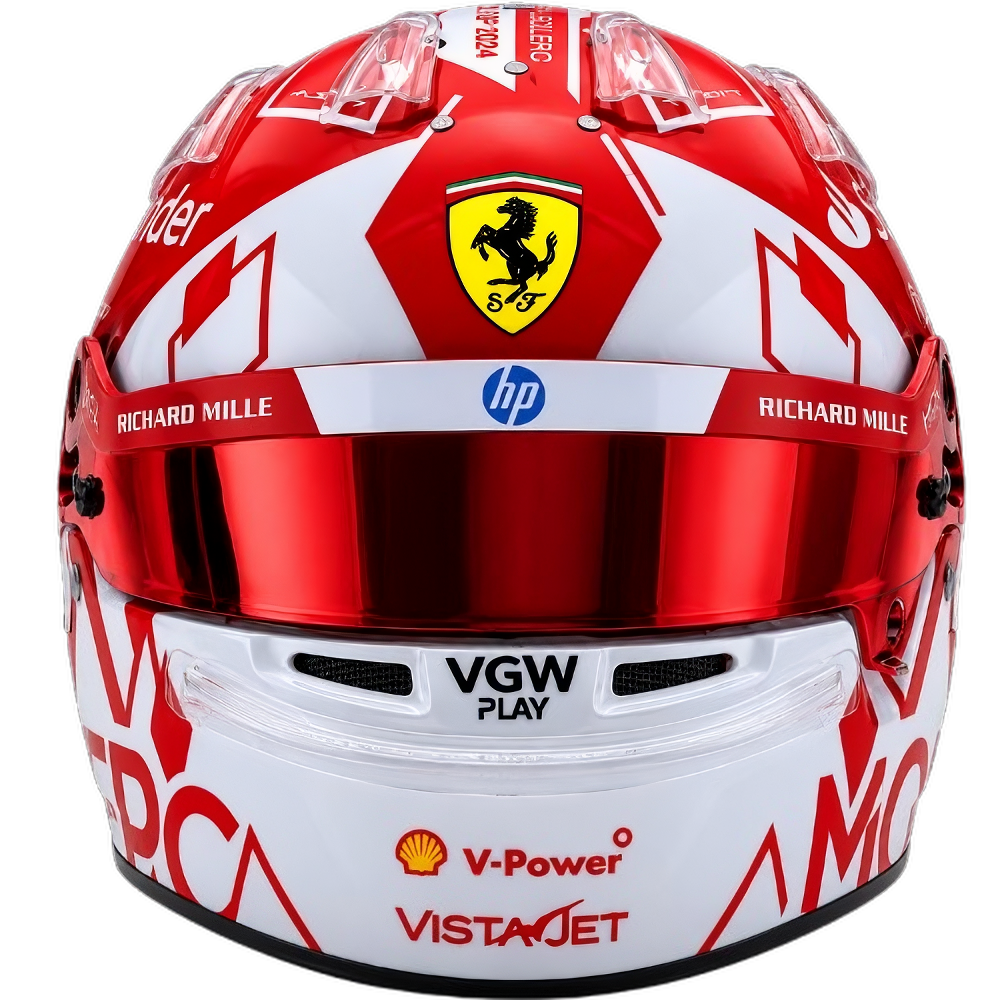
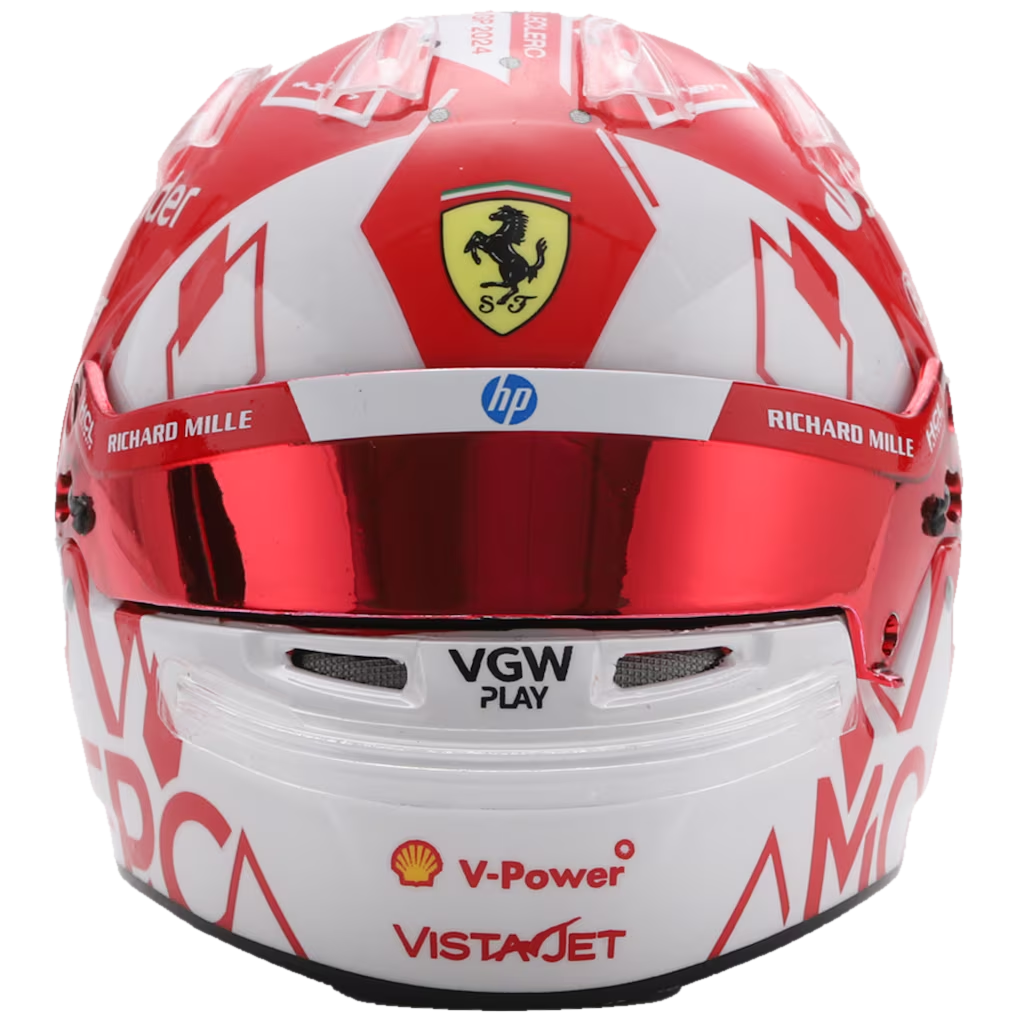
fix(hero): defringe helmet, white navbar on scroll, unify marquee font
- Replace charles-helmet-monaco.png with defringed version (MinFilter erosion
  + gaussian feather) — removes white halo, preserves full dome at 764KB vs 2.9MB
- Add nav-theme-dark toggle in ScrollTrigger onUpdate: navbar text/icons fade
  to white when hero zooms out exposing dark background (threshold: progress > 0.08)
- Unify marquee font: WE DID IT AT HOME now uses font-racing to match the rest
  of the ticker instead of the mismatched font-editorial
- Monza HUD: authentic track layout, 3D orbit animation, laurel emblem

diff --git a/src/components/hero/MonzaHudCard.jsx b/src/components/hero/MonzaHudCard.jsx
@@ -1,4 +1,5 @@
 import React from 'react';
+import { motion } from 'framer-motion';
 
 export default function MonzaHudCard({ className = "" }) {
   return (
@@ -13,16 +14,51 @@ export default function MonzaHudCard({ className = "" }) {
         
         {/* TOP SECTION: Monza GP Track Map Outline & Name */}
         <div className="w-full flex flex-col items-center pt-1">
-          <svg viewBox="0 0 100 45" className="w-16 h-7" fill="none">
-            {/* Authentic Monza Circuit Silhouette */}
-            <path
-              d="M 15,28 C 12,25 18,18 25,18 C 35,18 42,10 52,10 C 58,10 60,18 68,20 C 78,22 88,26 92,30 C 95,33 90,36 82,36 C 65,36 45,34 30,34 C 20,34 16,30 15,28 Z"
-              stroke="#0A0A0B"
-              strokeWidth="1.8"
-              strokeLinecap="round"
-              strokeLinejoin="round"
-            />
-          </svg>
+          {/* 3D Holographic Orbit Container */}
+          <div className="relative w-16 h-7 flex items-center justify-center [perspective:400px]">
+            <motion.div
+              className="w-full h-full flex items-center justify-center"
+              style={{ transformStyle: 'preserve-3d' }}
+              initial={{ rotateX: 20, rotateY: 0 }}
+              animate={{ rotateY: 360 }}
+              transition={{
+                duration: 7,
+                repeat: Infinity,
+                ease: 'linear',
+              }}
+            >
+              <svg viewBox="0 0 100 55" className="w-full h-full" fill="none">
+                {/* Base Outline: Authentic Monza Circuit Shape */}
+                <path
+                  d="M 90.3,51.2 L 87.5,51.5 L 84.6,51.5 L 81.8,51.5 L 79.0,51.5 L 76.1,51.3 L 73.3,51.0 L 70.4,50.8 L 67.6,50.5 L 64.8,50.3 L 61.9,50.0 L 59.1,49.8 L 56.2,49.6 L 53.4,49.3 L 50.5,49.1 L 47.7,48.9 L 44.9,48.8 L 42.0,48.5 L 39.2,48.3 L 36.3,47.4 L 33.5,46.7 L 32.1,47.0 L 30.7,47.3 L 29.2,47.5 L 27.8,47.5 L 26.4,47.4 L 25.0,47.4 L 17.8,46.2 L 14.1,43.7 L 11.9,41.3 L 10.5,38.8 L 9.8,36.3 L 9.4,33.8 L 9.2,31.3 L 8.9,28.8 L 8.7,26.3 L 8.5,23.8 L 8.4,22.2 L 8.4,20.9 L 7.5,19.7 L 6.8,18.4 L 6.1,17.2 L 5.7,15.9 L 5.3,14.7 L 4.5,12.6 L 3.7,10.6 L 3.2,8.5 L 3.0,6.4 L 4.1,5.2 L 6.5,4.0 L 8.9,3.8 L 11.2,3.7 L 13.6,3.6 L 16.0,3.5 L 18.3,5.7 L 19.3,7.9 L 22.1,11.7 L 25.0,15.9 L 27.8,19.3 L 30.7,22.0 L 33.5,24.9 L 36.3,27.9 L 39.2,30.7 L 42.0,33.7 L 43.4,35.0 L 44.9,36.1 L 46.3,36.1 L 47.7,36.1 L 49.1,36.4 L 50.5,37.4 L 51.5,38.3 L 54.8,39.1 L 58.1,39.4 L 61.4,39.7 L 64.8,40.0 L 68.1,40.3 L 71.4,40.6 L 74.7,41.0 L 78.0,41.3 L 81.3,41.5 L 84.6,41.9 L 88.0,42.2 L 91.3,42.5 L 93.4,42.5 L 96.3,44.2 L 97.0,45.8 L 96.5,47.5 L 95.0,49.1 L 92.5,50.8 Z"
+                  stroke="#0A0A0B"
+                  strokeOpacity="0.18"
+                  strokeWidth="1.8"
+                  strokeLinecap="round"
+                  strokeLinejoin="round"
+                />
+                {/* Active Drawing Line: Looping Path Draw & Fade */}
+                <motion.path
+                  d="M 90.3,51.2 L 87.5,51.5 L 84.6,51.5 L 81.8,51.5 L 79.0,51.5 L 76.1,51.3 L 73.3,51.0 L 70.4,50.8 L 67.6,50.5 L 64.8,50.3 L 61.9,50.0 L 59.1,49.8 L 56.2,49.6 L 53.4,49.3 L 50.5,49.1 L 47.7,48.9 L 44.9,48.8 L 42.0,48.5 L 39.2,48.3 L 36.3,47.4 L 33.5,46.7 L 32.1,47.0 L 30.7,47.3 L 29.2,47.5 L 27.8,47.5 L 26.4,47.4 L 25.0,47.4 L 17.8,46.2 L 14.1,43.7 L 11.9,41.3 L 10.5,38.8 L 9.8,36.3 L 9.4,33.8 L 9.2,31.3 L 8.9,28.8 L 8.7,26.3 L 8.5,23.8 L 8.4,22.2 L 8.4,20.9 L 7.5,19.7 L 6.8,18.4 L 6.1,17.2 L 5.7,15.9 L 5.3,14.7 L 4.5,12.6 L 3.7,10.6 L 3.2,8.5 L 3.0,6.4 L 4.1,5.2 L 6.5,4.0 L 8.9,3.8 L 11.2,3.7 L 13.6,3.6 L 16.0,3.5 L 18.3,5.7 L 19.3,7.9 L 22.1,11.7 L 25.0,15.9 L 27.8,19.3 L 30.7,22.0 L 33.5,24.9 L 36.3,27.9 L 39.2,30.7 L 42.0,33.7 L 43.4,35.0 L 44.9,36.1 L 46.3,36.1 L 47.7,36.1 L 49.1,36.4 L 50.5,37.4 L 51.5,38.3 L 54.8,39.1 L 58.1,39.4 L 61.4,39.7 L 64.8,40.0 L 68.1,40.3 L 71.4,40.6 L 74.7,41.0 L 78.0,41.3 L 81.3,41.5 L 84.6,41.9 L 88.0,42.2 L 91.3,42.5 L 93.4,42.5 L 96.3,44.2 L 97.0,45.8 L 96.5,47.5 L 95.0,49.1 L 92.5,50.8 Z"
+                  stroke="#0A0A0B"
+                  strokeWidth="1.8"
+                  strokeLinecap="round"
+                  strokeLinejoin="round"
+                  initial={{ pathLength: 0, opacity: 0 }}
+                  animate={{
+                    pathLength: [0, 1, 1, 1],
+                    opacity: [0.3, 1, 1, 0],
+                  }}
+                  transition={{
+                    duration: 3.2,
+                    repeat: Infinity,
+                    ease: 'easeInOut',
+                    times: [0, 0.68, 0.86, 1],
+                  }}
+                />
+              </svg>
+            </motion.div>
+          </div>
           <span className="text-[10px] font-sans font-black tracking-tight text-[#0A0A0B] mt-1 uppercase">
             MONZA GP
           </span>
@@ -31,51 +67,15 @@ export default function MonzaHudCard({ className = "" }) {
         {/* Crisp Horizontal Divider Line */}
         <div className="w-full h-[1px] bg-[#0A0A0B]/70" />
 
-        {/* BOTTOM SECTION: Detailed Helmet + Laurel Wreath Leaf Branches */}
+        {/* BOTTOM SECTION: Authentic Scuderia Ferrari Helmet & Laurel Emblem */}
         <div className="w-full flex flex-col items-center text-center">
-          <div className="relative w-full flex items-center justify-center">
-            <svg viewBox="0 0 90 48" className="w-20 h-10" fill="none">
-              {/* Left Laurel Wreath Branch with Leaves */}
-              <g stroke="#0A0A0B" strokeWidth="1.2" strokeLinecap="round" strokeLinejoin="round">
-                <path d="M 18,36 C 12,28 12,16 22,8" strokeWidth="1.4" />
-                <path d="M 14,30 C 8,28 8,24 13,22" />
-                <path d="M 15,22 C 10,20 10,16 16,14" />
-                <path d="M 17,15 C 13,12 14,8 19,8" />
-                <path d="M 21,9 C 18,6 20,2 25,3" />
-                <path d="M 18,34 C 18,38 22,40 24,36" />
-                <path d="M 16,26 C 18,28 22,29 20,25" />
-                <path d="M 18,18 C 20,20 23,20 22,17" />
-              </g>
-
-              {/* Right Laurel Wreath Branch with Leaves */}
-              <g stroke="#0A0A0B" strokeWidth="1.2" strokeLinecap="round" strokeLinejoin="round">
-                <path d="M 72,36 C 78,28 78,16 68,8" strokeWidth="1.4" />
-                <path d="M 76,30 C 82,28 82,24 77,22" />
-                <path d="M 75,22 C 80,20 80,16 74,14" />
-                <path d="M 73,15 C 77,12 76,8 71,8" />
-                <path d="M 69,9 C 72,6 70,2 65,3" />
-                <path d="M 72,34 C 72,38 68,40 66,36" />
-                <path d="M 74,26 C 72,28 68,29 70,25" />
-                <path d="M 72,18 C 70,20 67,20 68,17" />
-              </g>
-
-              {/* Center Detailed CAD Wireframe Grid Helmet */}
-              <g stroke="#0A0A0B" strokeWidth="1.1" fill="none">
-                {/* Outer Helmet Dome */}
-                <ellipse cx="45" cy="22" rx="14" ry="15" />
-                {/* Horizontal Shell Ribs */}
-                <path d="M 33,18 Q 45,14 57,18" />
-                <path d="M 32,24 Q 45,20 58,24" />
-                <path d="M 34,29 Q 45,26 56,29" />
-                {/* Vertical Shell Ribs */}
-                <path d="M 39,9 Q 40,22 38,34" strokeWidth="0.8" />
-                <path d="M 45,7 L 45,36" strokeWidth="0.9" />
-                <path d="M 51,9 Q 50,22 52,34" strokeWidth="0.8" />
-                {/* Visor Area Cutout */}
-                <rect x="35" y="19" width="20" height="7" rx="2" fill="#0A0A0B" />
-                <line x1="37" y1="22.5" x2="53" y2="22.5" stroke="#FFFFFF" strokeWidth="0.9" />
-              </g>
-            </svg>
+          <div className="relative w-full flex items-center justify-center py-0.5">
+            <img
+              src="/images/racing helmet laurel emblem.png"
+              alt="Scuderia Ferrari Racing Helmet Laurel Emblem"
+              className="w-[88px] h-11 object-contain pointer-events-none select-none drop-shadow-sm"
+              loading="lazy"
+            />
           </div>
 
           <div className="text-[8px] font-sans font-black tracking-wider text-[#0A0A0B] uppercase leading-tight mt-0.5">

diff --git a/src/components/hero/FaceHelmetReveal.jsx b/src/components/hero/FaceHelmetReveal.jsx
@@ -62,6 +62,11 @@ export default function FaceHelmetReveal() {
           scrub: 0.6,
           onUpdate: (self) => {
             setScrollProgress(self.progress);
+            if (self.progress > 0.08) {
+              document.body.classList.add('nav-theme-dark');
+            } else {
+              document.body.classList.remove('nav-theme-dark');
+            }
           },
           onLeaveBack: () => {
             document.body.classList.remove('nav-theme-dark');
@@ -167,11 +172,11 @@ export default function FaceHelmetReveal() {
             }}
           >
             <span className="pr-16 flex items-center gap-4">
-              <span className="font-editorial not-italic">WE DID IT AT HOME</span>
+              <span className="font-racing">WE DID IT AT HOME</span>
               <span className="font-racing"> • WE DID IT AT MONACO • FOR FERRARI • </span>
             </span>
             <span className="pr-16 flex items-center gap-4">
-              <span className="font-editorial not-italic">WE DID IT AT HOME</span>
+              <span className="font-racing">WE DID IT AT HOME</span>
               <span className="font-racing"> • WE DID IT AT MONACO • FOR FERRARI • </span>
             </span>
           </motion.div>
